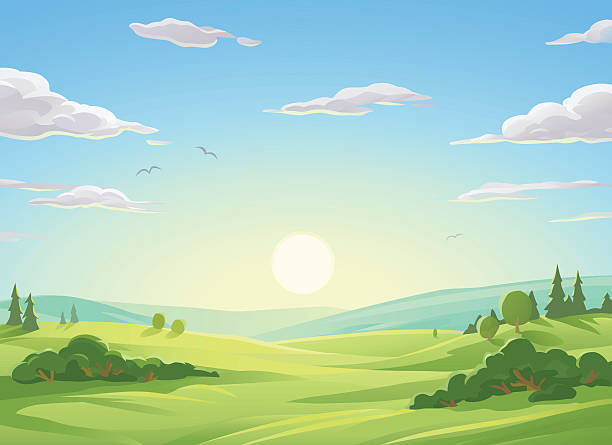
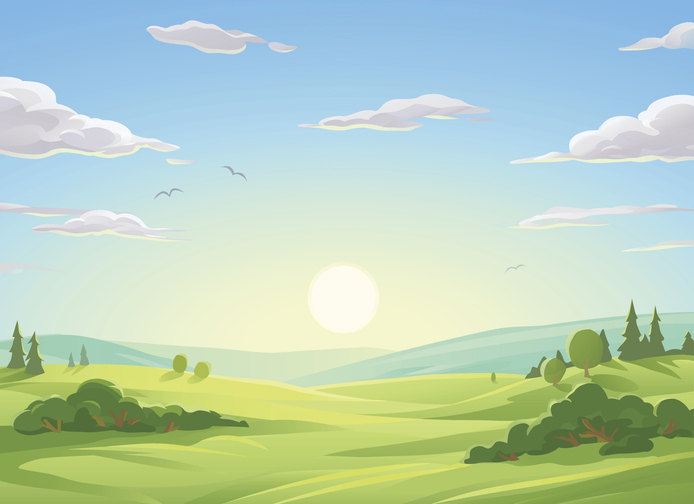
Now I am actually done with backgrounds. Found new pictures/cited the current pictures properly and merged with emoji features.

diff --git a/Desktop/sharkhack/templates/index.html b/Desktop/sharkhack/templates/index.html
@@ -2,6 +2,7 @@
 <html lang="en">
 <head>
     <meta charset="UTF-8">
+    <p class="citation" id="citation" style="display: none;">Image by <a href="https://www.vecteezy.com" target="_blank" rel="noopener noreferrer">Vecteezy</a></p>
     <meta name="viewport" content="width=device-width, initial-scale=1.0">
     <title>Mindfulness Timer</title>
     <link href="https://fonts.googleapis.com/css2?family=Comfortaa:wght@400;700&display=swap" rel="stylesheet">
@@ -100,6 +101,44 @@
         .text-background {
         color: white; /* Makes the text white */
     }
+
+    .citation {
+        position: fixed; /* Fixes the position to the bottom-left corner */
+        bottom: 10px; /* Distance from the bottom */
+        left: 10px; /* Distance from the left */
+        font-size: 0.8em; /* Makes the text smaller */
+        color: #666; /* Light gray color for subtlety */
+        z-index: 1000; /* Ensures it stays above other elements */
+    }
+
+    .citation a {
+        color: #666; /* Matches the text color */
+        text-decoration: none; /* Removes underline */
+    }
+
+    .citation a:hover {
+        text-decoration: underline; /* Adds underline on hover */
+    }
+
+    .emoji-buttons {
+        margin-top: 20px;
+    }
+
+    .emoji-button {
+        font-size: 2rem;
+        padding: 10px;
+        margin: 5px;
+        border: 1px solid black;
+        border-radius: 25%;
+        background: none;
+        cursor: pointer;
+        transition: transform 0.2s ease;
+    }
+
+    .emoji-button:hover {
+        transform: scale(1.2);
+    }
+
     </style>
 </head>
 <body>
@@ -110,7 +149,7 @@
             <div class="dropdown-content">
                 <a href="#" onclick="changeBackground('Library.JPG')">Library</a>
                 <a href="#" onclick="changeBackground('Beach.JPG')">Beach</a>
-                <a href="#" onclick="changeBackground('Night.JPG')">Night</a>
+                <a href="#" onclick="changeBackground('Classical.JPG')">Classical</a>
                 <a href="#" onclick="changeBackground('Field.JPG')">Field</a>
                 <a href="#" onclick="changeBackground('white')">White</a>
                 <a href="#" onclick="changeBackground('steel blue')">Steel Blue</a>
@@ -155,6 +194,14 @@
         <button id="reset-button">Reset</button>
     </div>
 
+    <div class="emoji-buttons">
+        <button class="emoji-button" onclick="handleEmojiClick('😭', event)">😭</button> <!-- Really Sad -->
+        <button class="emoji-button" onclick="handleEmojiClick('😢', event)">😢</button> <!-- Sad -->
+        <button class="emoji-button" onclick="handleEmojiClick('🤷', event)">🤷</button> <!-- Shrug -->
+        <button class="emoji-button" onclick="handleEmojiClick('😊', event)">😊</button> <!-- Happy -->
+        <button class="emoji-button" onclick="handleEmojiClick('🎉', event)">🎉</button> <!-- Confetti -->
+    </div>
+
     <script>
         let secondsElapsed = 0;
         let timerInterval = null;
@@ -181,6 +228,11 @@
             }
         }
 
+        function toggleEmojiButtons(show) {
+            const emojiButtons = document.querySelector('.emoji-buttons');
+            emojiButtons.style.display = show ? 'block' : 'none'; // Show the emoji buttons
+        }
+
         async function startTimer() {
             if (!timerInterval) {
                 const inputMinutes = document.getElementById('time-minutes').value;
@@ -197,6 +249,7 @@
                     document.getElementById('elapsed-time').textContent = formatTime(secondsElapsed); // Reset elapsed time display
                     timerInterval = setInterval(updateProgressBar, 1000);
 
+                    toggleEmojiButtons(false);
                     // Fetch timeout duration from the backend
                     const response = await fetch('/get-timeout');
                     const data = await response.json();
@@ -205,6 +258,7 @@
                     setTimeout(() => {
                         if (secondsElapsed >= timeLimit) {
                             alert("Time's up!");
+                            toggleEmojiButtons(true);
                         }
                     }, (timeLimit * 1000) + 500); // Add 500ms delay
                 } else {
@@ -273,15 +327,18 @@
         function changeBackground(option) {
             const body = document.body;
             const textElements = document.querySelectorAll('h1, p, label, #elapsed-time'); // Select text elements
+            const citation = document.getElementById('citation'); // Get the citation element
 
             if (option === 'white') {
                 body.style.backgroundImage = 'none';
                 body.style.backgroundColor = 'white';
                 textElements.forEach(el => el.classList.remove('text-background')); // Remove background from text
+                citation.style.display = 'none'; // Hide the citation
             } else if (option === 'steel blue') {
                 body.style.backgroundImage = 'none';
                 body.style.backgroundColor = '#9EAFD2'; // Sky bluef
                 textElements.forEach(el => el.classList.remove('text-background')); // Remove background from text
+                citation.style.display = 'none'; // Hide the citation
             } else {
                 body.style.backgroundImage = `url('/static/pictures/${option}')`;
                 body.style.backgroundSize = 'cover'; // Ensures the image covers the screen
@@ -290,9 +347,16 @@
                 body.style.backgroundAttachment = 'fixed'; // Keeps the background fixed during scrolling
 
                         // Add background to text only for Library and Night
-                if (option === 'Library.JPG' || option === 'Night.JPG') {
+                if (option === 'Library.JPG')
+                {
+                    citation.style.display = 'block'; // Show the citation for Library
                     textElements.forEach(el => el.classList.add('text-background'));
-                } else {
+                } else if (option === 'Classical.JPG') {
+                    citation.style.display = 'none'; // Hide the citation for Night
+                    textElements.forEach(el => el.classList.add('text-background'));
+                }
+                else {
+                    citation.style.display = 'none'; // Hide the citation for Night
                     textElements.forEach(el => el.classList.remove('text-background'));
                 }
             }
@@ -345,6 +409,66 @@
 
     // Preload sounds when the page loads
     window.onload = preloadSounds;
+
+    function handleEmojiClick(emoji, event = null) {
+        if (emoji === '🎉') {
+            // Confetti effect for the 🎉 button
+            if (event && event.target) {
+                const button = event.target;
+                const rect = button.getBoundingClientRect();
+                const x = (rect.left + rect.right) / 2 / window.innerWidth; // Normalize to 0-1
+                const y = (rect.top + rect.bottom) / 2 / window.innerHeight; // Normalize to 0-1
+
+                confetti({
+                    particleCount: 100,
+                    spread: 70,
+                    origin: { x: x, y: y }
+                });
+            }
+        } else {
+            // Emoji blast effect for other emojis
+            if (event && event.target) {
+                const button = event.target;
+                const rect = button.getBoundingClientRect();
+                const x = (rect.left + rect.right) / 2; // Center of the button (x-coordinate)
+                const y = (rect.top + rect.bottom) / 2; // Center of the button (y-coordinate)
+
+                for (let i = 0; i < 30; i++) {
+                    createEmojiParticle(emoji, x, y);
+                }
+            }
+        }
+    }
+
+    function createEmojiParticle(emoji, x, y) {
+        const particle = document.createElement('div');
+        particle.textContent = emoji;
+        particle.style.position = 'fixed'; // Use fixed positioning to avoid layout shifts
+        particle.style.left = `${x}px`;
+        particle.style.top = `${y}px`;
+        particle.style.fontSize = `${Math.random() * 24 + 16}px`; // Random size between 16px and 40px
+        particle.style.opacity = 1;
+        particle.style.transition = 'transform 1s ease-out, opacity 1s ease-out, top 1s ease-out';
+
+        document.body.appendChild(particle);
+
+        // Randomize the direction and distance of the particle
+        const angle = Math.random() * 2 * Math.PI; // Random angle in radians
+        const distance = Math.random() * 200 + 50; // Random distance between 50px and 250px
+        const translateX = Math.cos(angle) * distance;
+        const translateY = Math.sin(angle) * distance;
+
+        // Trigger the animation
+        requestAnimationFrame(() => {
+            particle.style.transform = `translate(${translateX}px, ${translateY}px) scale(0.5)`;
+            particle.style.opacity = 0;
+        });
+
+        // Remove the particle after the animation ends
+        setTimeout(() => {
+            particle.remove();
+        }, 1000);
+    }
     </script>
 </body>
 </html>
